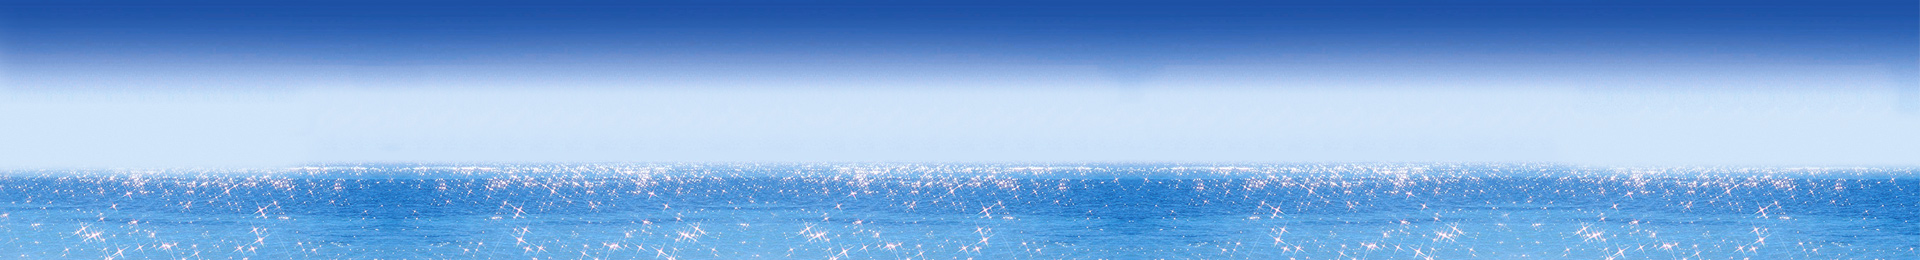
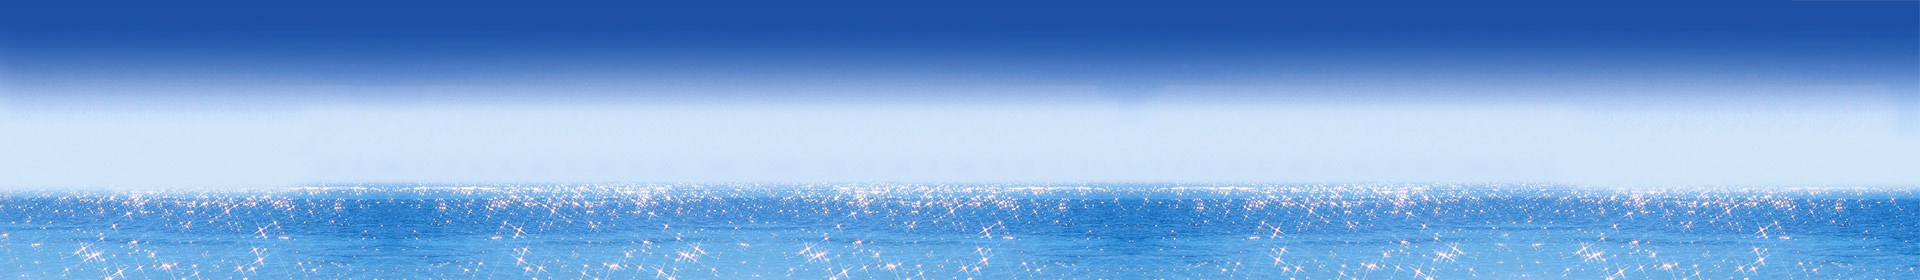
#ogonek

diff --git a/ogonek/css/main.css b/ogonek/css/main.css
@@ -185,35 +185,9 @@ button[disabled]:before, input[type="button"][disabled]:before, input[type="subm
 .jq-selectbox li.optgroup { font-weight: bold; }
 .jq-selectbox li.optgroup:hover { background: none; color: #323232; cursor: default; }
 .jq-selectbox li.option { padding-left: 25px; }
-.jq-selectbox__search { margin: 5px; }
[1 lines of base64/hex data omitted]
-.jq-selectbox__search input::-webkit-search-cancel-button, .jq-selectbox__search input::-webkit-search-decoration { -webkit-appearance: none; }
-.jq-selectbox__not-found { margin: 5px; padding: 5px 8px 6px; background: #f0f0f0; font-size: 13px; }
-.jq-select-multiple { -moz-box-sizing: border-box; box-sizing: border-box; padding: 1px; border: 1px solid #ccc; border-radius: 4px; background: #fff; color: #333; font: 14px/18px Arial, sans-serif; cursor: default; }
-.jq-select-multiple.focused { border: 1px solid #5794bf; }
-.jq-select-multiple.disabled { border-color: #ccc; background: #f6f5f3; box-shadow: none; }
-.jq-select-multiple ul { margin: 0; padding: 0; }
-.jq-select-multiple li { padding: 3px 9px 4px; list-style: none; -webkit-user-select: none; -moz-user-select: none; -ms-user-select: none; user-select: none; white-space: nowrap; }
-.jq-select-multiple li:first-child { border-radius: 3px 3px 0 0; }
-.jq-select-multiple li:last-child { border-radius: 0 0 3px 3px; }
-.jq-select-multiple li.selected { background: #08c; color: #fff; }
-.jq-select-multiple li.disabled { color: #aaa; }
-.jq-select-multiple.disabled li.selected, .jq-select-multiple li.selected.disabled { background: #ccc; color: #fff; }
-.jq-select-multiple li.optgroup { font-weight: bold; }
-.jq-select-multiple li.option { padding-left: 25px; }
 .selectbox-small .jq-selectbox { width: 220px; }
 .selectbox-small .jq-selectbox__select { height: 32px; }
 .selectbox-small .jq-selectbox__select-text { height: 28px; padding-top: 5px; }
-/* === FILE === */
-.jq-file { width: 270px; border-radius: 1px; position: relative; display: inline-block; }
-.jq-file input { cursor: pointer; height: auto; line-height: 1em; }
-.jq-file__name { width: 100%; height: 30px; padding: 6px 80px 4px 10px; border: 1px solid #d6d6d6; border-radius: 1px; color: #676767; font: 13px/18px Arial, Helvetica, sans-serif; white-space: nowrap; text-overflow: ellipsis; overflow: hidden; background: #fff; transition: border-color .2s; }
-.jq-file.focused .jq-file__name { border-color: #a09f9e; }
-.jq-file__browse { height: 30px; padding: 6px 10px 4px; border: 1px solid #d6d6d6; border-radius: 0 1px 1px 0; position: absolute; top: 0; right: 0; color: #676767; font: 13px/18px Arial, Helvetica, sans-serif; background: #f6f5f3; transition: background-color .2s, border-color .2s; }
-.jq-file:hover .jq-file__browse { background: #fff; }
-.jq-file:active .jq-file__browse { padding-top: 7px; padding-bottom: 3px; background: #f6f5f3; }
-.jq-file.focused .jq-file__browse { border: 1px solid #a09f9e; }
-.jq-file.disabled, .jq-file.disabled .jq-file__name, .jq-file.disabled .jq-file__browse { background: #f6f5f3; }
 /* ==========================================================================
    _Дефолтная форма
    ========================================================================== */
@@ -233,17 +207,9 @@ button[disabled]:before, input[type="button"][disabled]:before, input[type="subm
 .checkbox .jq-checkbox, .radio .jq-radio { position: absolute !important; left: 0; margin: 0; }
 .checkbox-small { font-size: 12px; display: block; margin-bottom: 9px; }
 .checkbox-small .jq-checkbox { margin: 0 2px 0 0; top: -1px; }
-.jq-file.file-photo { width: 100%; max-width: 350px; margin: 0 auto; display: block !important; }
-.jq-file.file-photo .jq-file__name { height: 210px; padding: 112px 9px 9px 9px; line-height: 21px; color: #bebebe; text-align: center; white-space: normal; text-transform: uppercase; background: #e3e3e3; transition: border-color .2s, color .2s; }
-.jq-file.file-photo.changed .jq-file__name { text-transform: none; }
-.jq-file.file-photo .jq-file__name:before { width: 50px; height: 50px; margin: -50px 0 0 -25px; opacity: .2; content: ' '; display: block; position: absolute; top: 50%; left: 50%; background: url('../img/camera.png') no-repeat 0 0; background-size: 50px auto; transition: opacity .2s; }
-.jq-file.file-photo:hover .jq-file__name, .jq-file.file-photo.focused .jq-file__name { border-color: #a09f9e; color: #a09f9e; }
-.jq-file.file-photo:hover .jq-file__name:before, .jq-file.file-photo.focused .jq-file__name:before { opacity: .4; }
-.jq-file.file-photo .jq-file__browse { display: none; }
 .form-line { width: 100%; margin-bottom: 10px; clear: left; }
 .form-line:last-of-type { margin-bottom: 0; }
 .form-line input[type="email"], .form-line input[type="number"], .form-line input[type="password"], .form-line input[type="search"], .form-line input[type="tel"], .form-line input[type="text"], .form-line input[type="url"], .form-line textarea, .form-line .jq-selectbox, .form-line .jq-file { width: 100%; }
-.form-line .note { min-height: 0; margin: 15px 0 0; }
 .form-line-2-col, .form-line-3-col { width: auto; margin-left: -10px; margin-right: -10px; }
 .form-line-2-col .col { width: 50%; padding: 0 10px; float: left; }
 .form-line-3-col .col { width: 33.3%; padding: 0 10px; float: left; }
@@ -564,8 +530,7 @@ button.red, input[type="button"].red, input[type="submit"].red, input[type="rese
    ========================================================================== */
 .header {
 	height: 260px;
-	background: #2155a9 url(../img/header.jpg) 50% 0 no-repeat;
-	background-size: cover;
+	background: #2155a9 url(../img/header.jpg) 50% -20px no-repeat;
 }
 .header .wrapper {
 	height: 100%;
@@ -622,8 +587,7 @@ button.red, input[type="button"].red, input[type="submit"].red, input[type="rese
 	height: 247px;
 	font-size: 12px;
 	line-height: 18px;
-	background: #1d4b9a url(../img/footer.jpg) 50% 0 no-repeat;
-	background-size: cover;
+	background: #1d4b9a url(../img/header.jpg) 50% 0 no-repeat;
 }
 .footer .wrapper {
 	padding: 0;
